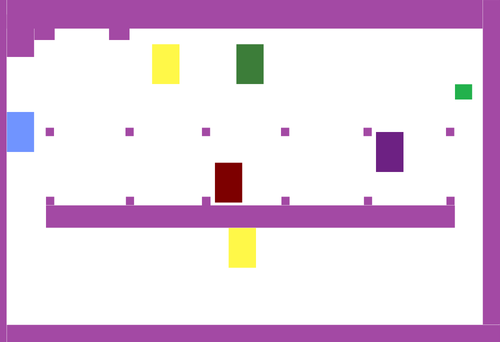
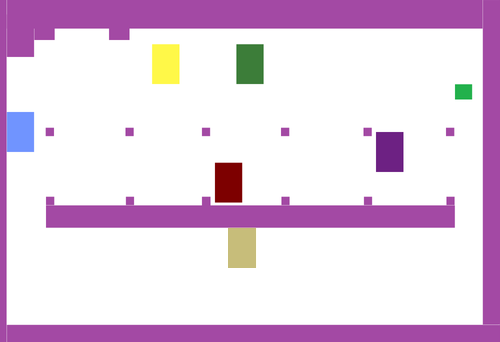
fix color

Changed region(s): [[0.45, 0.6433, 0.51, 0.7895]]

diff --git a/src/main/HitboxColors.java b/src/main/HitboxColors.java
@@ -1,6 +1,7 @@
 package main;
 
 import java.util.Set;
+import main.HitboxColors.Ui;
 
 public final class HitboxColors {
 
@@ -42,7 +43,7 @@ public final class HitboxColors {
         public static final int COLOR_ADRIAN      = 0xB97A57;
         public static final int COLOR_NEXTAREA    = 0xED1C24;
         public static final int COLOR_BROKENDOOR  = 0xFF7F27;
-        public static final int COLOR_JAKE        = 0xC8BFE7;
+        public static final int COLOR_JAKE        = 0xC7BD7A;
         public static final int COLOR_DARRYLL     = 0xFFF848;
         public static final int COLOR_GIO         = 0x7D0000;
         public static final int COLOR_YOHANN      = 0x3C7D39;